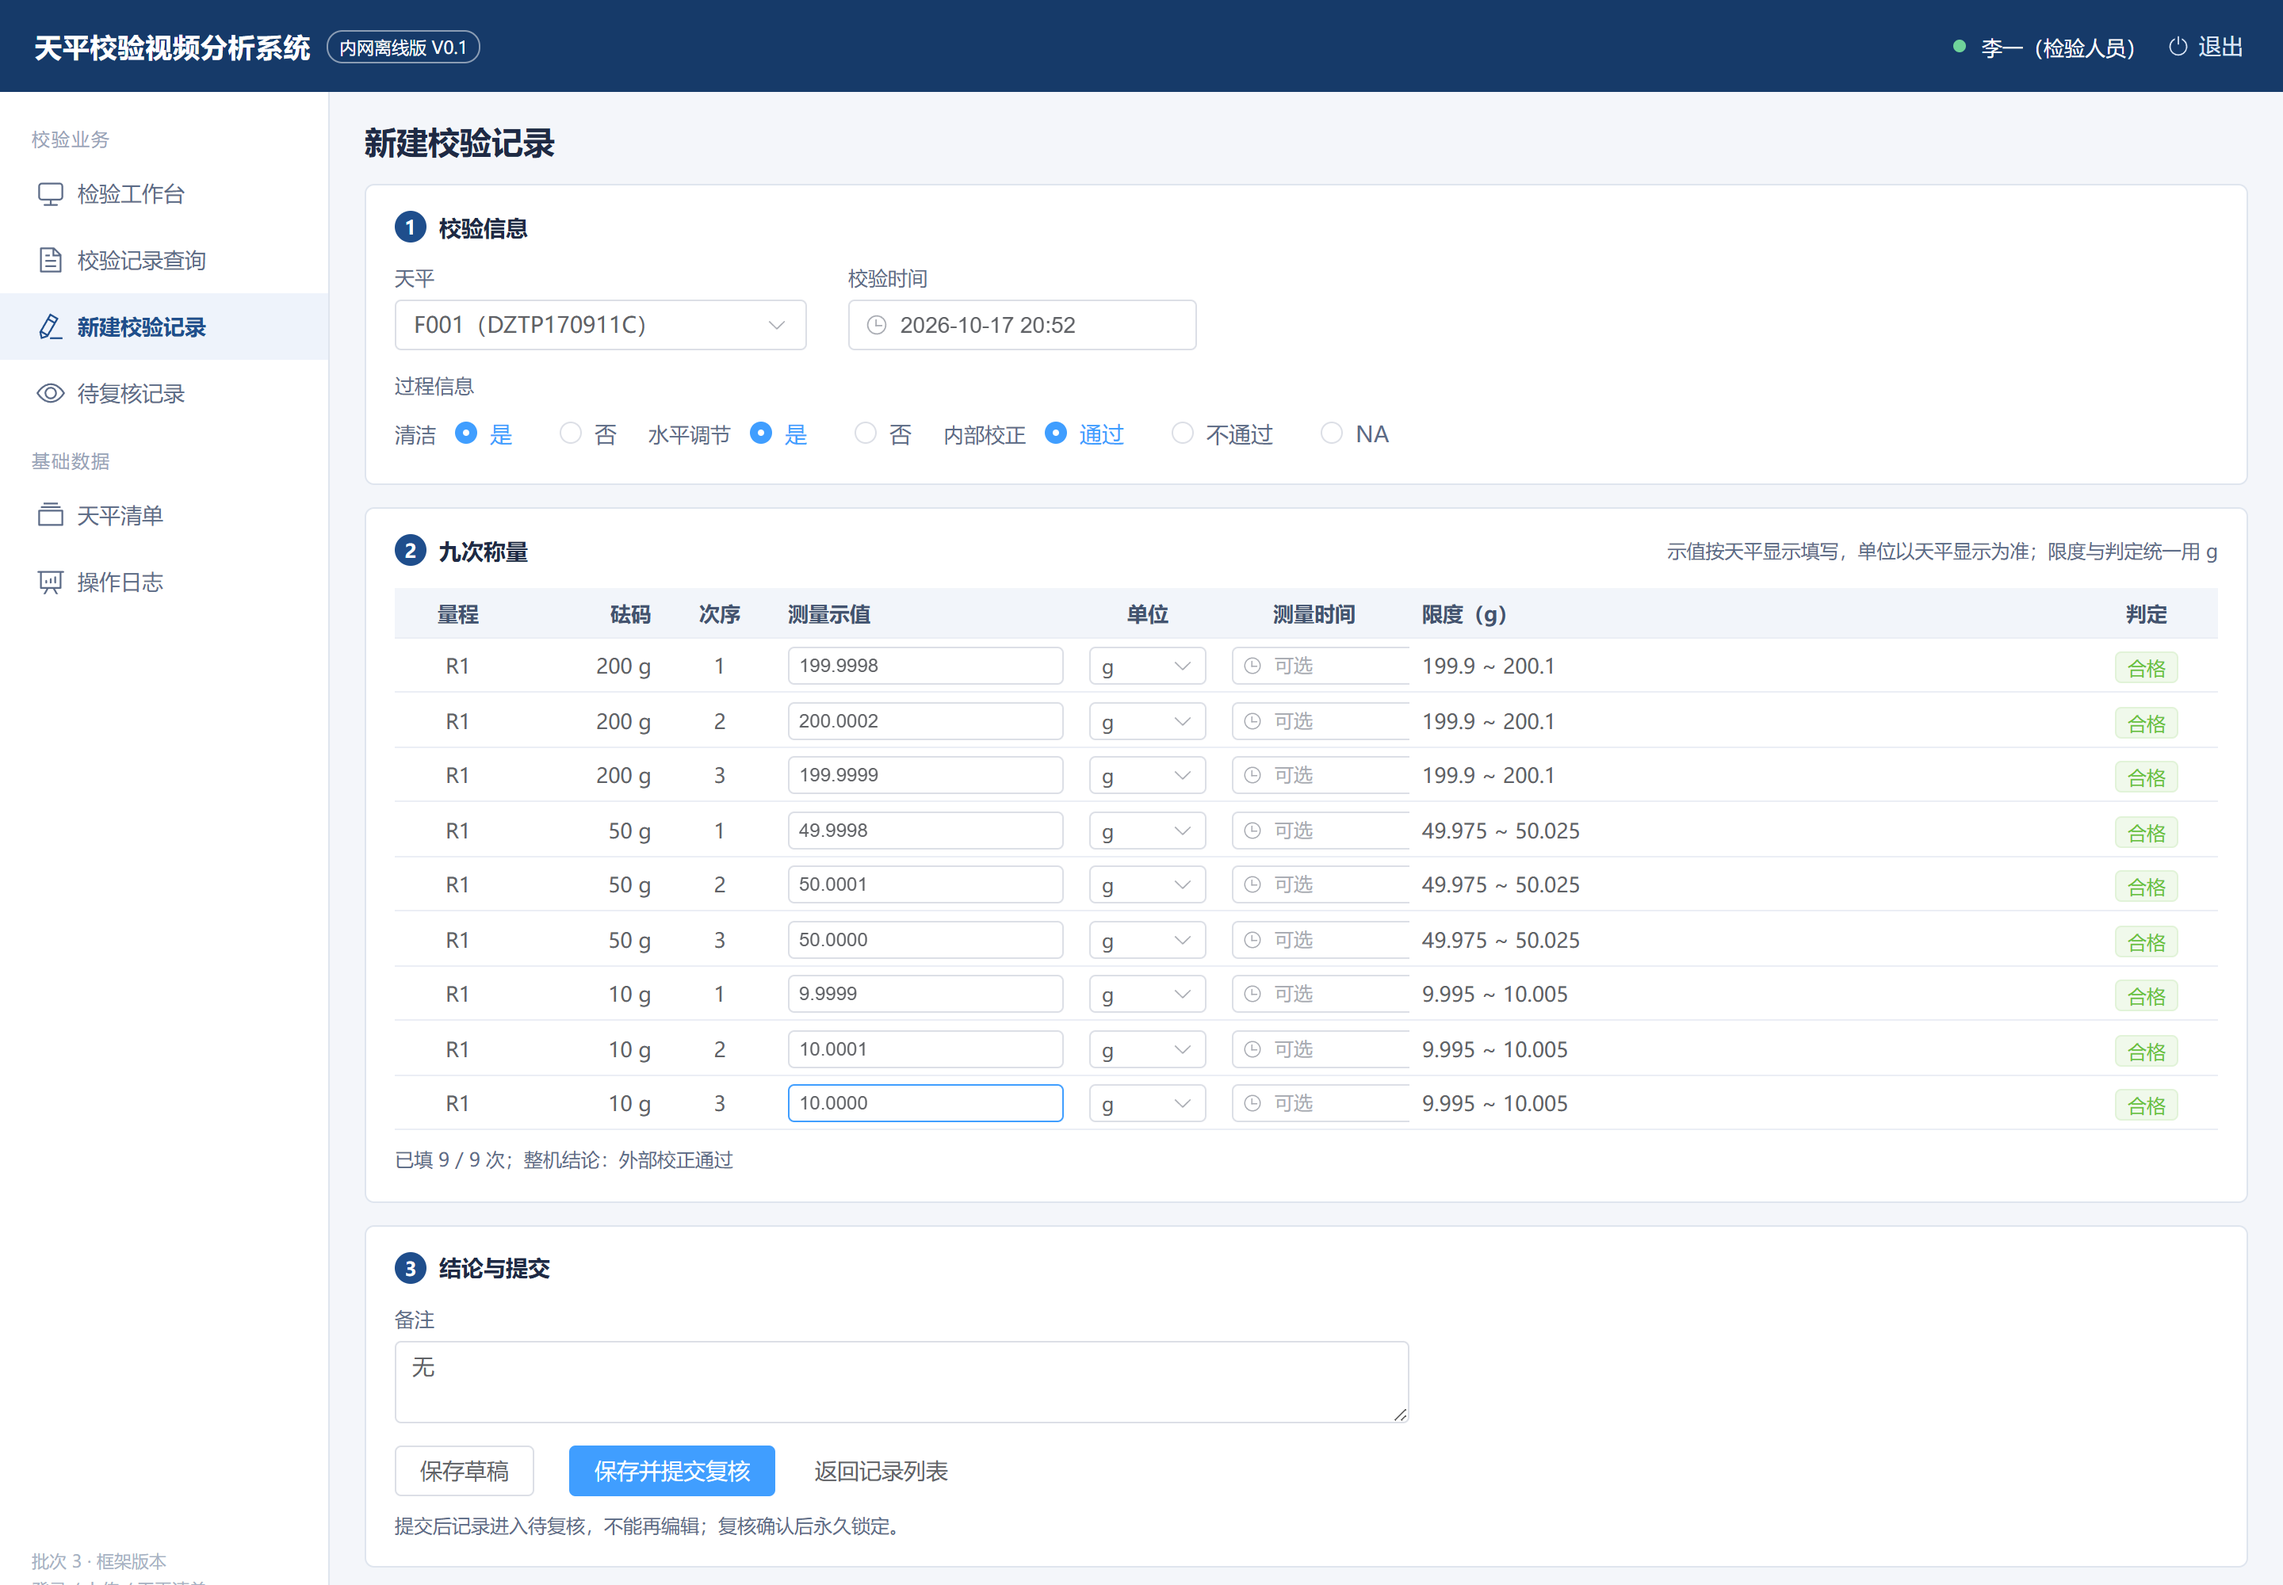
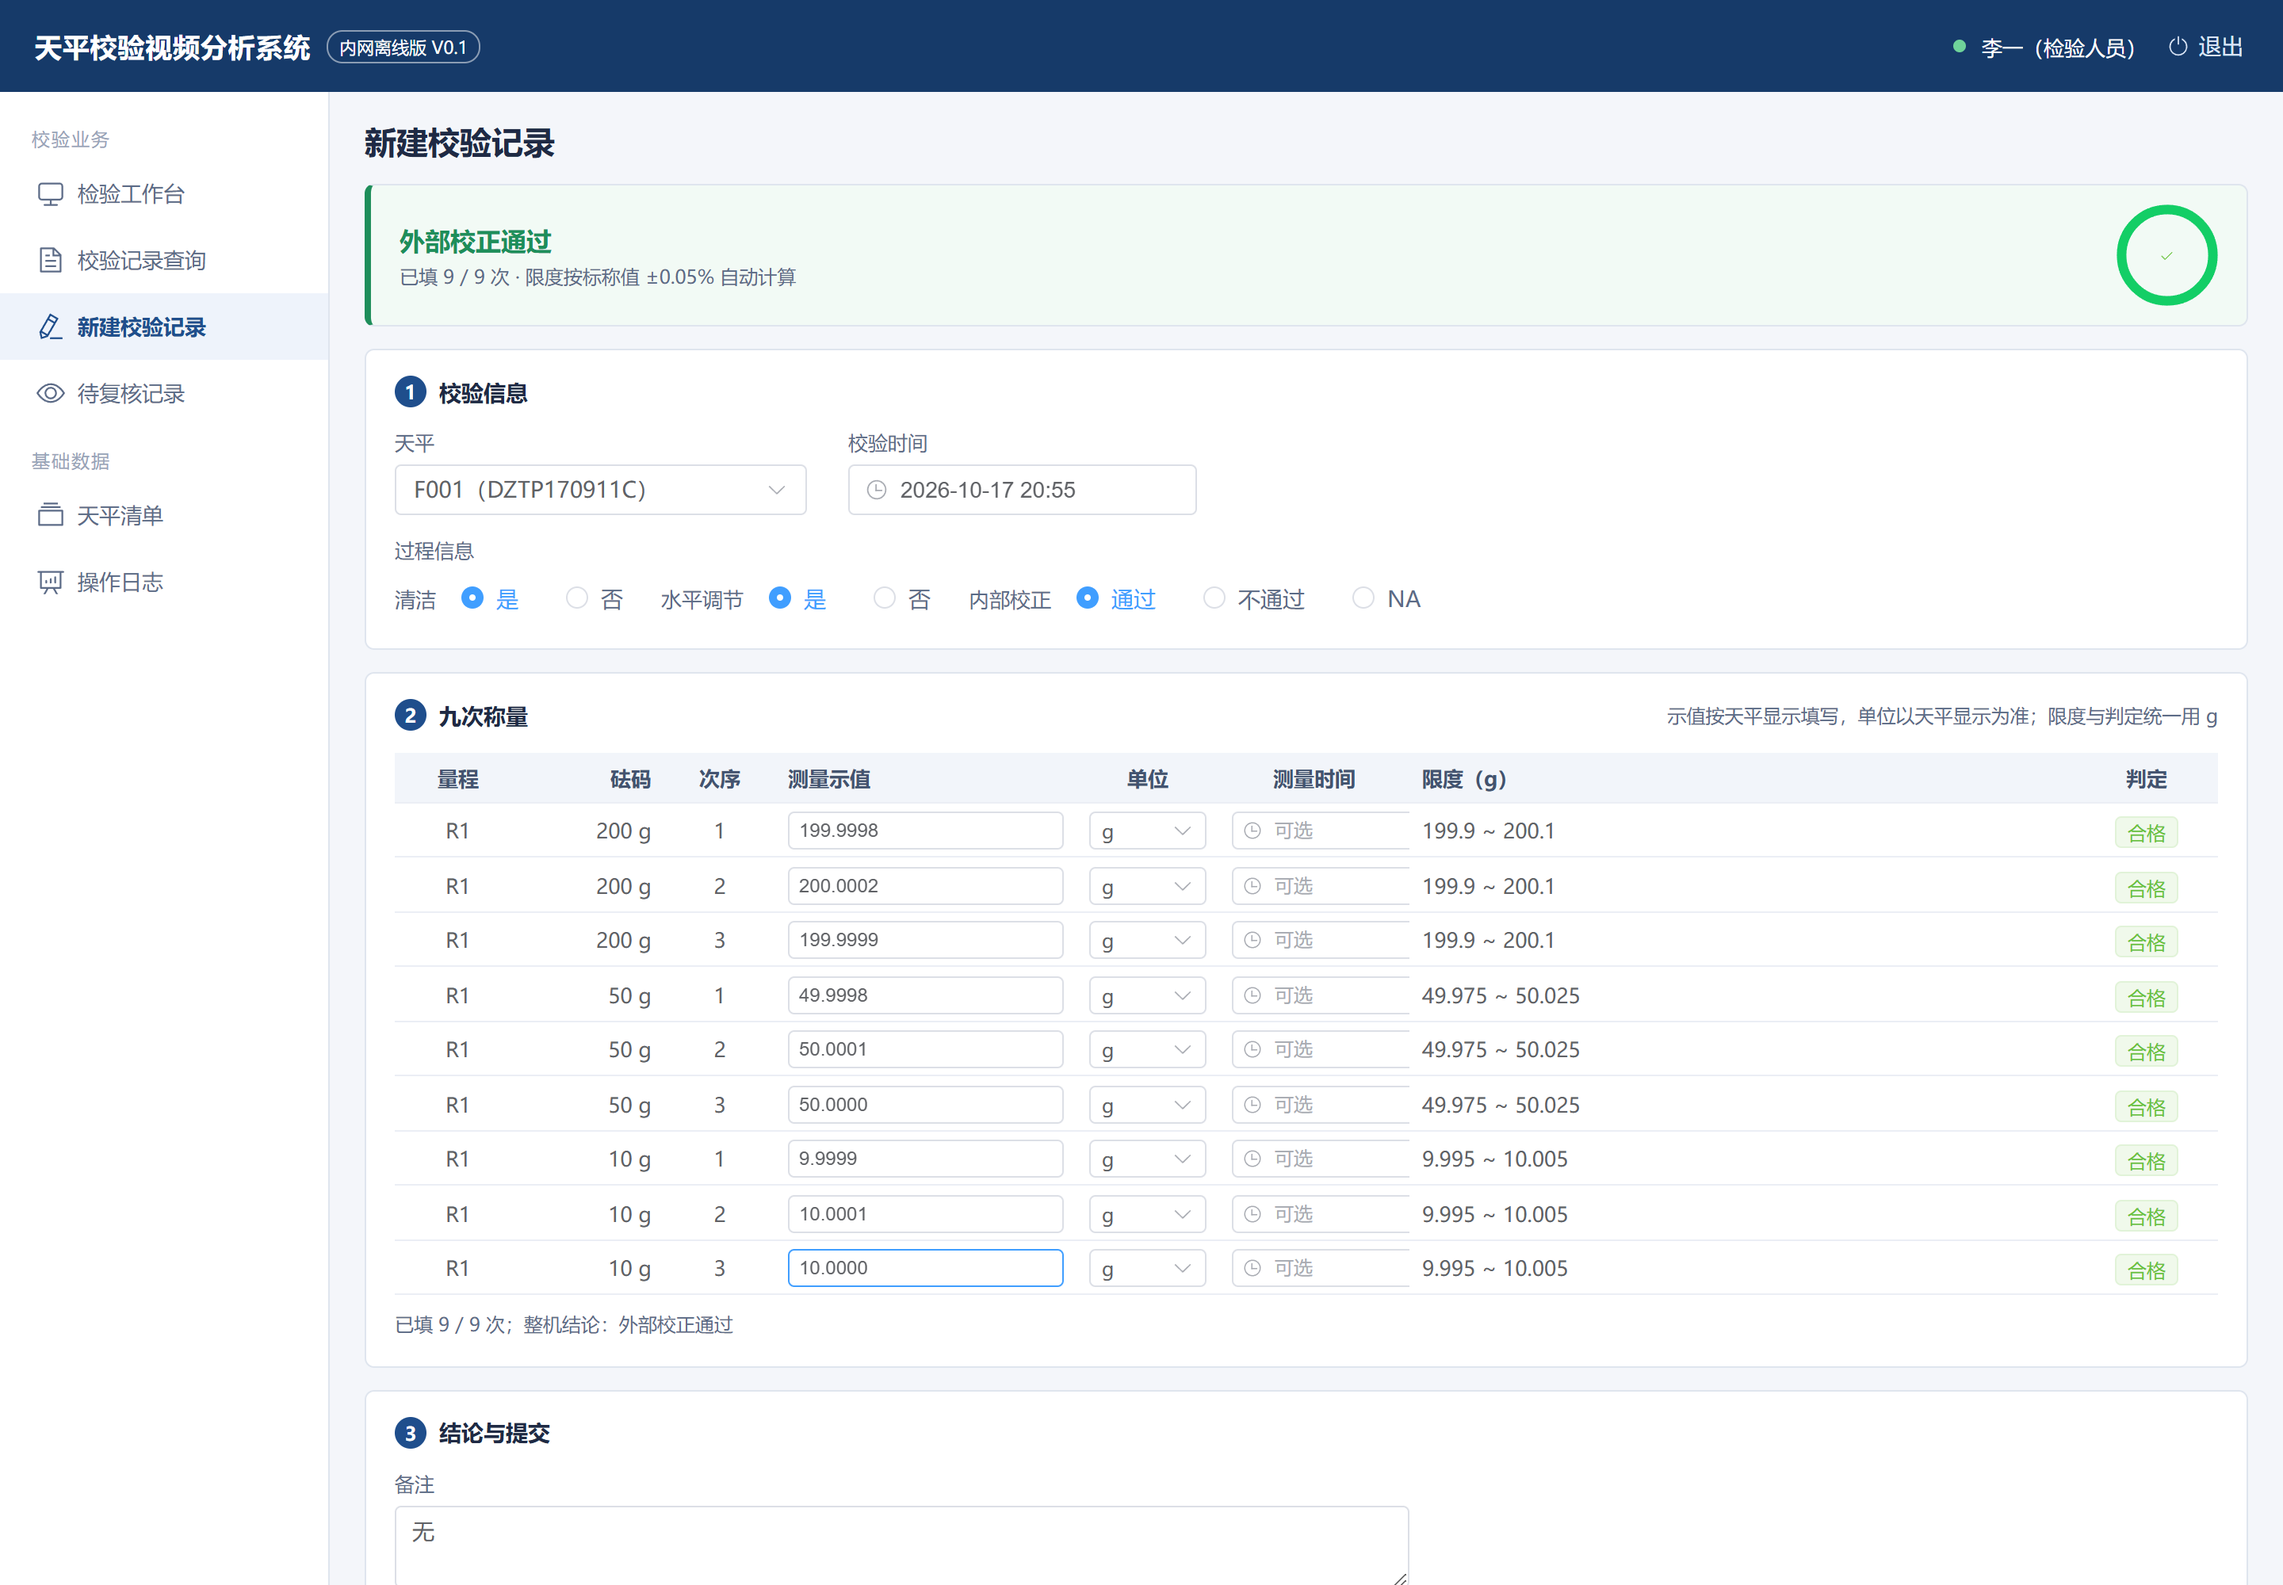
批次5：UI 优化（结论状态条、填写进度、记录筛选、超差行）与接口测试脚本

diff --git a/frontend/src/views/CalibrationFormView.vue b/frontend/src/views/CalibrationFormView.vue
@@ -26,6 +26,17 @@ const saving = ref(false)
 const currentBalance = computed(() => balances.value.find((b) => b.id === balanceId.value))
 const filled = computed(() => rows.value.filter((r) => r.displayValue !== null && r.displayValue !== '').length)
 const overall = computed(() => rows.value.length > 0 && rows.value.every((r) => resultOf(r).ok === true))
+const verdictText = computed(() => {
+  if (rows.value.length === 0 || filled.value < rows.value.length) return '待填写'
+  return overall.value ? '外部校正通过' : '外部校正不通过'
+})
+const verdictClass = computed(() => {
+  if (rows.value.length === 0 || filled.value < rows.value.length) return 'pending'
+  return overall.value ? 'ok' : 'bad'
+})
+const progress = computed(() =>
+  rows.value.length === 0 ? 0 : Math.round((filled.value / rows.value.length) * 100)
+)
 
 onMounted(async () => {
   loading.value = true
@@ -107,6 +118,10 @@ function resultOf(row) {
   return { lower, upper, valueG, ok: qualified(valueG, row.nominalG, row.scale) }
 }
 
+function rowClass({ row }) {
+  return resultOf(row).ok === false ? 'row-bad' : ''
+}
+
 function pad(n) {
   return String(n).padStart(2, '0')
 }
@@ -179,6 +194,14 @@ async function save(submitAfter = false) {
       <span v-if="recordNo" class="note">记录编号 {{ recordNo }}</span>
     </div>
 
+    <div class="verdict" :class="verdictClass">
+      <div>
+        <div class="v-main">{{ verdictText }}</div>
+        <div class="v-sub">已填 {{ filled }} / {{ rows.length }} 次 · 限度按标称值 ±0.05% 自动计算</div>
+      </div>
+      <el-progress type="circle" :percentage="progress" :width="64" :status="verdictClass === 'bad' ? 'exception' : verdictClass === 'ok' ? 'success' : undefined" />
+    </div>
+
     <div class="card">
       <h2><span class="no">1</span>校验信息</h2>
       <div class="grid">
@@ -226,7 +249,7 @@ async function save(submitAfter = false) {
         <span class="no">2</span>九次称量
         <span class="hint">示值按天平显示填写，单位以天平显示为准；限度与判定统一用 g</span>
       </h2>
-      <el-table :data="rows" size="small">
+      <el-table :data="rows" size="small" :row-class-name="rowClass">
         <el-table-column label="量程" width="80" align="center">
           <template #default="{ row }">R{{ row.rangeSeq }}</template>
         </el-table-column>
@@ -276,7 +299,7 @@ async function save(submitAfter = false) {
       <h2><span class="no">3</span>结论与提交</h2>
       <div class="field">
         <label>备注</label>
-        <el-input v-model="form.remark" type="textarea" :rows="2" style="max-width: 640px" />
+        <el-input v-model="form.remark" type="textarea" :rows="2" style="max-width: 640px" placeholder="如无异常填“无”" />
       </div>
       <div class="actions">
         <el-button :loading="saving" @click="save(false)">保存草稿</el-button>
@@ -290,11 +313,30 @@ async function save(submitAfter = false) {
 
 <style scoped>
 .head { display: flex; align-items: baseline; gap: 14px; }
+.verdict {
+  display: flex;
+  align-items: center;
+  justify-content: space-between;
+  gap: 16px;
+  border: 1px solid #dfe5ee;
+  border-left: 4px solid #b9c6db;
+  border-radius: 6px;
+  background: #fbfcfe;
+  padding: 12px 18px;
+  margin-bottom: 14px;
+}
+.verdict.ok { border-left-color: #1e8e5a; background: #f2faf5; }
+.verdict.bad { border-left-color: #c0392b; background: #fdf4f3; }
+.v-main { font-size: 16px; font-weight: 700; }
+.verdict.ok .v-main { color: #1e8e5a; }
+.verdict.bad .v-main { color: #c0392b; }
+.v-sub { font-size: 12px; color: #5c6b87; margin-top: 4px; }
+:deep(.row-bad td) { background: #fdf1f0 !important; }
 .grid { display: flex; flex-wrap: wrap; gap: 14px 26px; }
 .field { display: flex; flex-direction: column; gap: 6px; }
 .field.full { width: 100%; }
 .field label { font-size: 12.5px; color: #5c6b87; }
-.radios { display: flex; align-items: center; gap: 12px; flex-wrap: wrap; font-size: 13px; }
+.radios { display: flex; align-items: center; gap: 8px 16px; flex-wrap: wrap; font-size: 13px; }
 .radios span { color: #5c6b87; margin-left: 8px; }
 .radios span:first-child { margin-left: 0; }
 .actions { display: flex; align-items: center; gap: 10px; margin: 14px 0 8px; }

diff --git a/frontend/src/views/CalibrationsView.vue b/frontend/src/views/CalibrationsView.vue
@@ -1,5 +1,5 @@
 <script setup>
-import { onMounted, ref } from 'vue'
+import { computed, onMounted, ref } from 'vue'
 import { useRouter } from 'vue-router'
 import { ElMessage } from 'element-plus'
 import http from '../api/http'
@@ -7,6 +7,9 @@ import http from '../api/http'
 const router = useRouter()
 const records = ref([])
 const loading = ref(false)
+const statusFilter = ref('')
+const balanceFilter = ref('')
+const keyword = ref('')
 
 const statusMap = {
   DRAFT: { text: '草稿', type: 'info' },
@@ -15,6 +18,14 @@ const statusMap = {
 }
 
 onMounted(load)
+
+const balanceOptions = computed(() => [...new Set(records.value.map((r) => r.balanceCode))])
+const filtered = computed(() => records.value.filter((r) => {
+  if (statusFilter.value && r.status !== statusFilter.value) return false
+  if (balanceFilter.value && r.balanceCode !== balanceFilter.value) return false
+  if (keyword.value && !r.recordNo.includes(keyword.value.trim())) return false
+  return true
+}))
 
 async function load() {
   loading.value = true
@@ -39,8 +50,19 @@ function open(row) {
       <el-button type="primary" @click="router.push('/calibrations/new')">新建校验记录</el-button>
     </div>
     <div class="card">
-      <h2>全部记录<span class="hint">按创建时间倒序，不同天平、不同检验人员的记录都可查</span></h2>
-      <el-table :data="records" v-loading="loading" size="small" empty-text="还没有校验记录">
+      <h2>全部记录<span class="hint">共 {{ filtered.length }} 条 · 按创建时间倒序</span></h2>
+      <div class="filters">
+        <el-input v-model="keyword" placeholder="按记录编号搜索" clearable style="width: 220px" />
+        <el-select v-model="balanceFilter" placeholder="全部天平" clearable style="width: 140px">
+          <el-option v-for="code in balanceOptions" :key="code" :label="code" :value="code" />
+        </el-select>
+        <el-select v-model="statusFilter" placeholder="全部状态" clearable style="width: 140px">
+          <el-option label="草稿" value="DRAFT" />
+          <el-option label="待复核" value="SUBMITTED" />
+          <el-option label="已复核" value="REVIEWED" />
+        </el-select>
+      </div>
+      <el-table :data="filtered" v-loading="loading" size="small" empty-text="没有符合条件的记录">
         <el-table-column prop="recordNo" label="记录编号" width="190" />
         <el-table-column prop="balanceCode" label="天平" width="90" />
         <el-table-column prop="calibrationTime" label="校验时间" width="170" />
@@ -54,7 +76,11 @@ function open(row) {
         </el-table-column>
         <el-table-column label="状态" width="110" align="center">
           <template #default="{ row }">
-            <el-tag :type="statusMap[row.status]?.type || 'info'" size="small">
+            <el-tag
+              :type="statusMap[row.status]?.type || 'info'"
+              :effect="row.status === 'SUBMITTED' ? 'dark' : 'light'"
+              size="small"
+            >
               {{ statusMap[row.status]?.text || row.status }}
             </el-tag>
           </template>
@@ -72,4 +98,5 @@ function open(row) {
 <style scoped>
 .head { display: flex; align-items: center; justify-content: space-between; margin-bottom: 14px; }
 .head .page-title { margin: 0; }
+.filters { display: flex; gap: 10px; margin-bottom: 12px; }
 </style>

diff --git a/frontend/src/views/CalibrationDetailView.vue b/frontend/src/views/CalibrationDetailView.vue
@@ -57,6 +57,20 @@ async function submit() {
     </div>
 
     <div v-if="record">
+      <div class="verdict" :class="record.externalResult === '是' ? 'ok' : 'bad'">
+        <div>
+          <div class="v-main">{{ record.externalResult === '是' ? '外部校正通过' : '外部校正不通过' }}</div>
+          <div class="v-sub">{{ record.balanceCode }} · {{ record.calibrationTime }} · 检验人员 {{ record.inspectorName }}</div>
+        </div>
+        <el-tag
+          :type="statusMap[record.status]?.type"
+          :effect="record.status === 'SUBMITTED' ? 'dark' : 'light'"
+          size="large"
+        >
+          {{ statusMap[record.status]?.text }}
+        </el-tag>
+      </div>
+
       <div class="card">
         <h2>
           {{ record.recordNo }}
@@ -118,6 +132,21 @@ async function submit() {
 <style scoped>
 .head { display: flex; align-items: center; justify-content: space-between; margin-bottom: 14px; }
 .head .page-title { margin: 0; }
+.verdict {
+  display: flex;
+  align-items: center;
+  justify-content: space-between;
+  border: 1px solid #dfe5ee;
+  border-left: 4px solid #1e8e5a;
+  border-radius: 6px;
+  background: #f2faf5;
+  padding: 12px 18px;
+  margin-bottom: 14px;
+}
+.verdict.bad { border-left-color: #c0392b; background: #fdf4f3; }
+.v-main { font-size: 17px; font-weight: 700; color: #1e8e5a; }
+.verdict.bad .v-main { color: #c0392b; }
+.v-sub { font-size: 12px; color: #5c6b87; margin-top: 4px; }
 .kv { display: flex; flex-wrap: wrap; gap: 10px 28px; font-size: 13px; }
 .kv .k { color: #5c6b87; }
 .actions { display: flex; gap: 10px; align-items: center; }
